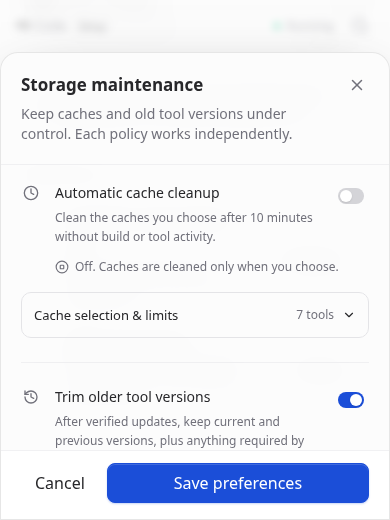
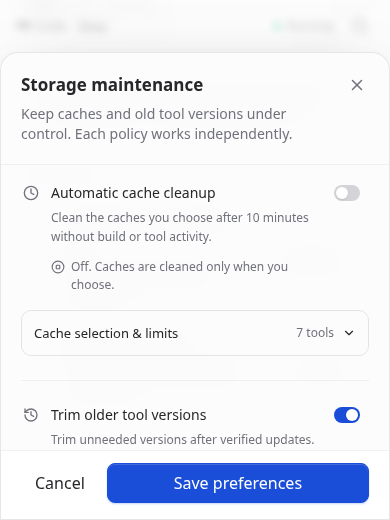
fix(storage): align policy copy and preserve paragraph spacing

diff --git a/docker/setup/console.css b/docker/setup/console.css
@@ -227,7 +227,7 @@ html.tc-locked { overflow: hidden; }
 .tc-storage-layout, .tc-storage-secondary { min-width: 0; display: grid; align-items: start; gap: var(--_gap); }
 @media (min-width: 1200px) {
   .tc-storage-layout { grid-template-columns: minmax(0, 1fr) 280px; gap: 24px; }
-  .tc-storage-secondary .tc-row { grid-template-columns: 28px minmax(0, 1fr); align-items: start; }
+  .tc-storage-secondary .tc-row { grid-template-columns: max-content minmax(0, 1fr); align-items: start; }
   .tc-storage-secondary .tc-row-actions { grid-column: 2; justify-content: flex-start; }
   .tc-storage-secondary .tc-row-name { white-space: normal; }
 }
@@ -237,7 +237,7 @@ html.tc-locked { overflow: hidden; }
 .tc-storage-disk-warning[data-tone="danger"] { color: var(--danger-text); }
 .tc-storage-disk-warning > .tc-icon { flex: none; margin-top: 2px; }
 .tc-storage-cache-summary { display: flex; flex-wrap: wrap; justify-content: space-between; gap: 4px 16px; padding: 12px 16px; border-bottom: 1px solid var(--hairline); font-size: 12px; color: var(--fg-muted); }
-.tc-storage-cache-row { grid-template-columns: 28px minmax(0, 1fr) max-content auto; column-gap: 12px; padding: 13px 16px; }
+.tc-storage-cache-row { grid-template-columns: max-content minmax(0, 1fr) max-content auto; column-gap: 12px; padding: 13px 16px; }
 .tc-storage-cache-row .tc-row-name { white-space: normal; }
 .tc-storage-cache-caption { display: flex; align-items: flex-start; gap: 5px; margin-top: 2px; color: var(--fg-muted); font-size: 12px; line-height: 18px; }
 .tc-storage-cache-caption > .tc-icon { flex: none; margin-top: 2px; }
@@ -276,7 +276,7 @@ html.tc-locked { overflow: hidden; }
 .tc-storage-plan-summary { display: flex; justify-content: space-between; align-items: flex-end; gap: 16px; }
 .tc-storage-plan-summary > div { display: grid; gap: 5px; }
 .tc-storage-plan-summary strong { font-size: 27px; font-weight: 500; line-height: 34px; font-variant-numeric: tabular-nums; letter-spacing: -.6px; }
-.tc-storage-plan-note { color: var(--fg-muted); font-size: 12px; line-height: 18px; margin: 12px 0 0; }
+.tc-storage-cleanup .tc-storage-plan-note { color: var(--fg-muted); font-size: 12px; line-height: 18px; margin: 12px 0 0; }
 .tc-storage-plan-list { margin-top: 20px; border: 1px solid var(--border); border-radius: var(--radius-lg); overflow: hidden; }
 .tc-storage-plan-row { padding: 14px; }
 .tc-storage-plan-row + .tc-storage-plan-row { border-top: 1px solid var(--hairline); }
@@ -288,7 +288,8 @@ html.tc-locked { overflow: hidden; }
 .tc-storage-plan-main { flex: 1; min-width: 0; display: grid; gap: 2px; }
 .tc-storage-plan-label { cursor: pointer; min-height: 44px; align-content: center; }
 .tc-storage-plan-choice > .tc-storage-size { align-self: flex-start; padding-top: 2px; }
-.tc-storage-plan-effect { margin: 8px 0 0 26px; color: var(--fg-muted); font-size: 12px; line-height: 18px; }
+.tc-storage-plan-explanation { display: grid; gap: 8px; }
+.tc-storage-plan-effect { color: var(--fg-muted); font-size: 12px; line-height: 18px; }
 .tc-storage-technical { margin: 8px 0 0 26px; font-size: 11px; line-height: 17px; color: var(--fg-muted); }
 .tc-storage-technical summary { cursor: pointer; width: fit-content; padding: 6px 0; }
 .tc-storage-technical code { display: block; padding: 8px 10px; margin-top: 6px; border: 1px solid var(--hairline); border-radius: var(--radius-sm); background: var(--hover); overflow-wrap: anywhere; color: var(--fg); }
@@ -298,6 +299,9 @@ html.tc-locked { overflow: hidden; }
 .tc-storage-location-item strong { font-size: 12px; font-weight: 500; color: var(--fg); }
 .tc-storage-location-item p { margin: 5px 0; }
 .tc-storage-plan-row[data-kept] { background: color-mix(in srgb, var(--fg) 2%, transparent); }
+.tc-storage-plan-row[data-kept] .tc-storage-plan-choice { align-items: flex-start; }
+.tc-storage-plan-row[data-kept] .tc-storage-plan-lock,
+.tc-storage-plan-row[data-kept] .tc-storage-plan-choice > .tc-tile { margin-top: 2px; }
 .tc-storage-result-summary { display: flex; align-items: flex-start; gap: 12px; margin: 4px 0 24px; }
 .tc-storage-result-mark { width: 36px; height: 36px; display: grid; place-items: center; border-radius: var(--radius-lg); background: var(--ok-soft); color: var(--ok-text); flex: none; }
 .tc-storage-result-mark[data-danger] { background: var(--danger-soft); color: var(--danger-text); }
@@ -309,12 +313,15 @@ html.tc-locked { overflow: hidden; }
 .tc-storage-cleanup-steps li + li { border-top: 1px solid var(--hairline); }
 .tc-storage-cleanup-steps li > span:first-child { display: flex; color: var(--fg-muted); }
 .tc-storage-policy-section + .tc-storage-policy-section { margin-top: 24px; padding-top: 24px; border-top: 1px solid var(--hairline); }
-.tc-storage-policy-heading { display: grid; grid-template-columns: 28px minmax(0, 1fr) 44px; align-items: flex-start; gap: 12px; }
-.tc-storage-policy-heading > div { display: grid; gap: 5px; }
+/* Related copy shares a column. Gaps survive the shell's paragraph reset;
+   intrinsic icon columns avoid reserving space beside smaller marks. */
+.tc-storage-policy-heading { display: grid; grid-template-columns: max-content minmax(0, 1fr) 44px; align-items: flex-start; gap: 12px; }
+.tc-storage-policy-copy { display: grid; gap: 12px; min-width: 0; }
+.tc-storage-policy-intro { display: grid; gap: 5px; }
 .tc-storage-policy-heading .tc-hint { line-height: 19px; }
 .tc-storage-policy-heading .tc-storage-toggle { width: 44px; height: 44px; margin-top: -12px; }
 .tc-storage-policy-heading .tc-switch::before { content: ""; position: absolute; inset: -14px -9px; }
-.tc-storage-policy-state { display: flex; align-items: flex-start; gap: 6px; margin: 12px 0 0 40px; font-size: 12px; line-height: 18px; color: var(--fg-muted); }
+.tc-storage-policy-state { display: flex; align-items: flex-start; gap: 6px; font-size: 12px; line-height: 18px; color: var(--fg-muted); }
 .tc-storage-policy-state > .tc-icon { flex: none; margin-top: 2px; }
 .tc-storage-limits-trigger { display: flex; gap: 8px; align-items: center; width: 100%; appearance: none; color: var(--fg); font: inherit; font-size: 13px; text-align: left; cursor: pointer; background: transparent; border: 1px solid var(--border); border-radius: var(--radius-lg); padding: 12px; margin-top: 16px; }
 .tc-storage-limits-trigger > .tc-small { margin-left: auto; }
@@ -328,7 +335,7 @@ html.tc-locked { overflow: hidden; }
 .tc-storage-limit-row + .tc-storage-limit-row { border-top: 1px solid var(--hairline); }
 .tc-storage-limit-label { display: flex; align-items: center; gap: 9px; min-height: 36px; font-size: 13px; line-height: 19px; cursor: pointer; }
 .tc-storage-limit-label > .tc-checkbox { flex: none; }
-.tc-storage-policy-detail { margin: 12px 0 0 40px; color: var(--fg-muted); font-size: 12px; line-height: 18px; }
+.tc-storage-policy-detail { color: var(--fg-muted); font-size: 12px; line-height: 18px; }
 .tc-storage-settings .tc-storage-notice { margin-top: 20px; scroll-margin-bottom: 16px; }
 @media (max-width: 639.98px) {
   .tc-storage-cache-row { grid-template-columns: 24px minmax(0, 1fr) auto; column-gap: 10px; row-gap: 4px; padding: 14px 12px; align-items: start; }
@@ -354,8 +361,7 @@ html.tc-locked { overflow: hidden; }
   .tc-storage-plan-choice > .tc-tile { display: none; }
   .tc-storage-plan-row { padding: 12px; }
   .tc-storage-plan-summary strong { font-size: 25px; }
-  .tc-storage-policy-heading { grid-template-columns: 24px minmax(0, 1fr) 44px; gap: 10px; }
-  .tc-storage-policy-state, .tc-storage-policy-detail { margin-left: 34px; }
+  .tc-storage-policy-heading { gap: 10px; }
   .tc-storage-limit-row { grid-template-columns: minmax(0, 1fr) 92px; gap: 8px; padding: 8px 10px; }
   .tc-storage-limit-label { min-height: 44px; }
 }

diff --git a/scripts/storage-ui-audit.js b/scripts/storage-ui-audit.js
@@ -10,6 +10,7 @@ try { ({ chromium } = require('playwright')); } catch { ({ chromium } = require(
 const base = process.argv[2] || 'http://127.0.0.1:23780/__setup/';
 const key = process.argv[3] || 'dev', GB = 1e9;
 const output = process.env.T3_STORAGE_UI_OUTPUT || '/tmp/t3-storage-ui-audit';
+const spacingOnly = process.env.T3_STORAGE_UI_SPACING_ONLY === '1';
 const deferred = () => { let release; return { promise: new Promise(resolve => { release = resolve; }), release: () => release() }; };
 const pause = ms => new Promise(resolve => setTimeout(resolve, ms));
 
@@ -27,6 +28,35 @@ const geometry = () => {
     const r = el.getBoundingClientRect(), style = getComputedStyle(el);
     if (!r.width || !r.height || el.matches('input,.tc-storage-path,.tc-switch')) continue;
     if (style.overflowX === 'visible' && el.scrollWidth > el.clientWidth + 1) issues.push((el.className || el.tagName) + ' clipped');
+  }
+  for (const row of document.querySelectorAll('.tc-storage .tc-row')) {
+    const lead = row.querySelector(':scope > .tc-tile'), main = row.querySelector(':scope > .tc-row-main');
+    if (lead && main) {
+      const gap = main.getBoundingClientRect().left - lead.getBoundingClientRect().right;
+      if (Math.abs(gap - parseFloat(getComputedStyle(row).columnGap)) > 1) issues.push('row text is detached from its icon');
+    }
+  }
+  // Overflow checks cannot detect a paragraph losing its indent or breathing
+  // room to the shell's reset. Check relationships between rendered text boxes.
+  for (const section of document.querySelectorAll('.tc-storage-policy-section')) {
+    const help = section.querySelector('.tc-hint'), detail = section.querySelector('.tc-storage-policy-detail,.tc-storage-policy-state');
+    if (help && detail) {
+      const a = help.getBoundingClientRect(), b = detail.getBoundingClientRect(), gap = b.top - a.bottom;
+      if (Math.abs(a.left - b.left) > 1) issues.push('policy explanation is not aligned with its description');
+      if (gap < 8 || gap > 20) issues.push('policy explanation has uneven vertical spacing');
+    }
+  }
+  for (const note of document.querySelectorAll('.tc-storage-cleanup .tc-storage-plan-note')) {
+    const previous = note.previousElementSibling;
+    if (previous && note.getBoundingClientRect().top - previous.getBoundingClientRect().bottom < 8) issues.push('cleanup note touches the preceding content');
+  }
+  for (const row of document.querySelectorAll('.tc-storage-plan-row[data-kept]')) {
+    const name = row.querySelector('.tc-row-name'), reason = row.querySelector('.tc-small'), detail = row.querySelector('.tc-storage-plan-effect');
+    if (detail) {
+      const a = name.getBoundingClientRect(), b = reason.getBoundingClientRect(), c = detail.getBoundingClientRect();
+      if (Math.abs(a.left - c.left) > 1) issues.push('protected-cache explanation is not aligned with its name');
+      if (c.top - b.bottom < 6) issues.push('protected-cache explanation touches its status');
+    }
   }
   return issues;
 };
@@ -115,7 +145,10 @@ const geometry = () => {
       await surface.locator('[data-key=storage-preferences]').click();
       assert.equal(await surface.locator('#storage-cache-limits').isVisible(),false,'off settings do not expose seven large fields');
       await snap('maintenance');
+      await surface.locator('[data-storage-switch=retainManagedVersions]').click(); await snap('maintenance-retention-off');
+      await surface.locator('[data-storage-switch=retainManagedVersions]').click();
       await surface.locator('[data-storage-limits]').click(); await check('expanded limits');
+      if (spacingOnly) await snap('maintenance-expanded');
       const footer = await surface.locator('.tc-storage-settings .tc-storage-dialog-foot').boundingBox();
       await surface.locator('.tc-storage-settings .tc-storage-dialog-scroll').evaluate(el => { el.scrollTop = el.scrollHeight; });
       assert.deepEqual(await surface.locator('.tc-storage-settings .tc-storage-dialog-foot').boundingBox(),footer,'settings footer stays fixed');
@@ -133,7 +166,7 @@ const geometry = () => {
       await surface.getByRole('alertdialog').getByRole('button',{name:'Cancel',exact:true}).click();
       assert.equal(await surface.locator('#storage-go-limit').inputValue(),'12.5','cancelled discard preserves the draft');
       mock.options.failPolicy = true; await surface.locator('[data-storage-save]').click();
-      await surface.locator('#storage-settings-error').waitFor(); assert.equal(await surface.locator('#storage-go-limit').inputValue(),'12.5'); await check('failed preferences');
+      await surface.locator('#storage-settings-error').waitFor(); assert.equal(await surface.locator('#storage-go-limit').inputValue(),'12.5'); await snap('maintenance-save-error');
       assert.equal(await surface.evaluate(() => document.activeElement.id),'storage-settings-error','save errors receive keyboard focus');
       assert(await surface.locator('#storage-settings-error').evaluate(el=>{
         const r=el.getBoundingClientRect(),body=el.closest('.tc-storage-dialog-scroll').getBoundingClientRect();
@@ -151,6 +184,12 @@ const geometry = () => {
       await surface.locator('#storage-go-limit').waitFor({state:'visible'});
       assert.equal(await surface.locator('#storage-go-limit').inputValue(),'12.5'); assert.equal(await surface.locator('#storage-uv-limit').inputValue(),'3');
       await cancel();
+
+      if (spacingOnly) {
+        assert.deepEqual(errors,[]); await context.close();
+        console.log(`PASS spacing ${tag}: text alignment, paragraph gaps, on/off policies, expanded limits, save errors, drafts and conflicts`);
+        continue;
+      }
 
       // Existing previous-version consent, stale replies and long inventories.
       await surface.locator('[data-key=storage-review]').click(); await surface.getByRole('dialog').waitFor();

diff --git a/docker/setup/client/storage-preferences.js b/docker/setup/client/storage-preferences.js
@@ -21,9 +21,9 @@ const T3StoragePreferences = (() => {
           <button class="tc-btn tc-btn--ghost tc-btn--icon" type="button" data-storage-cancel aria-label="Close maintenance settings"${disabled(saving)}>${icon('x')}</button></div>
         <div class="tc-storage-dialog-scroll">
           <section class="tc-storage-policy-section" aria-labelledby="storage-auto-label"><div class="tc-storage-policy-heading"><span class="tc-tile tc-tile--icon" aria-hidden="true">${icon('clock')}</span>
-            <div><label class="tc-row-name" id="storage-auto-label">Automatic cache cleanup</label><p class="tc-hint" id="storage-auto-help">Clean the caches you choose after 10 minutes without build or tool activity.</p></div>
+            <div class="tc-storage-policy-copy"><div class="tc-storage-policy-intro"><span class="tc-row-name" id="storage-auto-label">Automatic cache cleanup</span><p class="tc-hint" id="storage-auto-help">Clean the caches you choose after 10 minutes without build or tool activity.</p></div>
+              <div class="tc-storage-policy-state">${icon(draft.automatic ? 'check' : 'circle-stop', 'tc-icon--sm')}<span>${draft.automatic ? draft.automaticCaches.length ? T3Model.plural(draft.automaticCaches.length, 'cache') + ' selected for maintenance' : 'Choose at least one cache below' : 'Off. Caches are cleaned only when you choose.'}</span></div></div>
             <span class="tc-storage-toggle"><button type="button" class="tc-switch" role="switch" aria-labelledby="storage-auto-label" aria-describedby="storage-auto-help" aria-checked="${String(draft.automatic)}" data-storage-switch="automatic"${disabled(saving)}></button></span></div>
-            <div class="tc-storage-policy-state">${icon(draft.automatic ? 'check' : 'circle-stop', 'tc-icon--sm')}<span>${draft.automatic ? draft.automaticCaches.length ? T3Model.plural(draft.automaticCaches.length, 'cache') + ' selected for maintenance' : 'Choose at least one cache below' : 'Off. Caches are cleaned only when you choose.'}</span></div>
             <button class="tc-storage-limits-trigger" type="button" data-storage-limits aria-expanded="${String(limitsOpen)}" aria-controls="storage-cache-limits"${disabled(saving)}><span>Cache selection & limits</span><span class="tc-small tc-muted">${definitions.length} tools</span>${icon('chevron-down', 'tc-icon--sm')}</button>
             <div id="storage-cache-limits" class="tc-storage-limits"${limitsOpen ? '' : raw(' hidden')}>
               <p class="tc-hint">Choose which caches can be maintained. A limit triggers cleanup; it is not a target size. Protected caches are skipped.</p>
@@ -34,9 +34,9 @@ const T3StoragePreferences = (() => {
             </div>
           </section>
           <section class="tc-storage-policy-section" aria-labelledby="storage-retain-label"><div class="tc-storage-policy-heading"><span class="tc-tile tc-tile--icon" aria-hidden="true">${icon('history')}</span>
-            <div><label class="tc-row-name" id="storage-retain-label">Trim older tool versions</label><p class="tc-hint" id="storage-retain-help">After verified updates, keep current and previous versions, plus anything required by projects, providers or running tools.</p></div>
-            <span class="tc-storage-toggle"><button type="button" class="tc-switch" role="switch" aria-labelledby="storage-retain-label" aria-describedby="storage-retain-help" aria-checked="${String(draft.retainManagedVersions)}" data-storage-switch="retainManagedVersions"${disabled(saving)}></button></span></div>
-            <p class="tc-storage-policy-detail">${draft.retainManagedVersions ? 'Older unneeded versions are trimmed after updates.' : 'Versions stay installed until you review and trim them.'} Removing previous versions is always a separate manual choice.</p>
+            <div class="tc-storage-policy-copy"><div class="tc-storage-policy-intro"><span class="tc-row-name" id="storage-retain-label">Trim older tool versions</span><p class="tc-hint" id="storage-retain-help">${draft.retainManagedVersions ? 'Trim unneeded versions after verified updates.' : 'Keep older versions until you review and trim them.'}</p></div>
+              <p class="tc-storage-policy-detail" id="storage-retain-detail">Current, previous and required versions are protected. Removing previous versions is a separate manual choice.</p></div>
+            <span class="tc-storage-toggle"><button type="button" class="tc-switch" role="switch" aria-labelledby="storage-retain-label" aria-describedby="storage-retain-help storage-retain-detail" aria-checked="${String(draft.retainManagedVersions)}" data-storage-switch="retainManagedVersions"${disabled(saving)}></button></span></div>
           </section>
           ${error ? html`<div class="tc-storage-notice tc-storage-notice--danger" role="alert" tabindex="-1" id="storage-settings-error">${icon('triangle-alert')}<div><strong>${conflict ? 'Preferences changed elsewhere' : 'Preferences weren’t saved'}</strong><p>${error}</p>${conflict ? html`<button class="tc-btn tc-btn--sm" type="button" data-storage-reload>Reload latest preferences</button>` : ''}</div></div>` : ''}
         </div>

diff --git a/docker/setup/client/storage-review.js b/docker/setup/client/storage-review.js
@@ -39,10 +39,9 @@ const T3StorageReview = (() => {
                   <div class="tc-storage-plan-choice">
                     ${row.eligible ? html`<input class="tc-checkbox" type="checkbox" id="cleanup-${row.id}" data-cleanup-id="${row.id}" aria-labelledby="cleanup-label-${row.id}"${state.selected.has(row.id) ? raw(' checked') : ''}${disabled(state.submitting)}>` : html`<span class="tc-storage-plan-lock" aria-hidden="true">${icon(row.status === 'empty' ? 'check' : row.status === 'busy' ? 'clock' : 'shield-check', 'tc-icon--sm')}</span>`}
                     <span class="tc-tile tc-tile--sm" aria-hidden="true">${mark(row)}</span>
-                    ${row.eligible ? html`<label class="tc-storage-plan-main tc-storage-plan-label" for="cleanup-${row.id}"><span class="tc-row-name" id="cleanup-label-${row.id}">${row.label}</span><span class="tc-small tc-muted">${row.cleanupHint || row.effect}</span></label>` : html`<div class="tc-storage-plan-main"><span class="tc-row-name" id="cleanup-label-${row.id}">${row.label}</span><span class="tc-small tc-muted">${row.reason}</span></div>`}
+                    ${row.eligible ? html`<label class="tc-storage-plan-main tc-storage-plan-label" for="cleanup-${row.id}"><span class="tc-row-name" id="cleanup-label-${row.id}">${row.label}</span><span class="tc-small tc-muted">${row.cleanupHint || row.effect}</span></label>` : html`<div class="tc-storage-plan-main"><span class="tc-row-name" id="cleanup-label-${row.id}">${row.label}</span><div class="tc-storage-plan-explanation"><span class="tc-small tc-muted">${row.reason}</span>${row.status !== 'empty' ? html`<p class="tc-storage-plan-effect">${row.detail}</p>` : ''}</div></div>`}
                     <span class="tc-storage-size">${T3Model.formatBytes(row.bytes)}</span>
                   </div>
-                  ${!row.eligible && row.status !== 'empty' ? html`<p class="tc-storage-plan-effect">${row.detail}</p>` : ''}
                 </div>`)}</div>
               <details class="tc-storage-technical tc-storage-plan-locations" data-key="cleanup-locations"><summary>Locations and cleanup behavior</summary>${rows().map((row) => html`<div class="tc-storage-location-item"><strong>${row.label}</strong><p>${row.effect}</p><code>${row.path || 'Location unavailable'}</code></div>`)}</details>
               ${state.expired && !state.failure ? html`<div class="tc-storage-notice" role="status">${icon('clock')}<div><strong>This review has expired</strong><p>Check the current locations and tool activity before continuing.</p></div></div>` : !choice.length && !state.failure ? html`<p class="tc-storage-plan-note" role="status">${rows().some((row) => row.eligible) ? 'Choose at least one cache to continue.' : 'Nothing can be cleaned in this review. The reasons above explain what is being kept.'}</p>` : ''}

diff --git a/scripts/ui-audit.js b/scripts/ui-audit.js
@@ -34,6 +34,7 @@ const KEY = process.argv[3] || "k";
 const DEVICE_ID = process.env.T3_UI_AUDIT_DEVICE_ID || "";
 const DEVICE_LABEL = 'Work phone <not markup> & "desk"';
 const DEVICE_LONG_LABEL = 'W'.repeat(64);
+const REQUESTED_STATES = process.env.T3_UI_AUDIT_STATES?.split(',').map(name => name.trim()).filter(Boolean);
 const CHROME = process.env.CHROME_PATH
   || (require("node:fs").existsSync("/usr/bin/chromium") ? "/usr/bin/chromium"
       : "/opt/pw-browsers/chromium-1194/chrome-linux/chrome");
@@ -462,6 +463,10 @@ const audit = () => {
     }],
   ];
 
+  const states = REQUESTED_STATES ? STATES.filter(([name]) => REQUESTED_STATES.includes(name)) : STATES;
+  if (!states.length || REQUESTED_STATES?.some(name => !STATES.some(([state]) => state === name))) {
+    throw new Error('T3_UI_AUDIT_STATES must name existing routes or overlay states.');
+  }
   for (const { url, viewport: [width, height], tag } of RUNS) {
     // Measure a settled page: reduced motion disables the transitions and
     // animations the stylesheet already gates behind that preference, so a
@@ -492,7 +497,7 @@ const audit = () => {
       console.log(`  ${label.padEnd(19)} the console in the frame is not embedded, or has no visible close button`);
       found += 1;
     }
-    for (const [state, reach] of STATES) {
+    for (const [state, reach] of states) {
       await reach(target);
       await settle(target);
       const findings = await target.evaluate(audit);
@@ -504,10 +509,11 @@ const audit = () => {
         if (f.where) console.log(`        at ${f.where}`);
       }
     }
-    if (!found) console.log(`  ${label.padEnd(19)} clean (${STATES.length} states)`);
+    if (!found) console.log(`  ${label.padEnd(19)} clean (${states.length} state${states.length === 1 ? '' : 's'})`);
     total += found;
-    // The link this made is not for anyone; leave no unused link behind.
-    await target.evaluate(async () => {
+    // Only the pairing state creates a disposable link. A focused read-only
+    // run must never revoke a link that already belonged to someone else.
+    if (states.some(([name]) => name === 'pairing')) await target.evaluate(async () => {
       const button = document.querySelector("#page-access .tc-card-foot [data-cmd='link.revoke']");
       if (!button) return;
       await fetch((window.__T3_SETUP_BASE__ || "") + "/revoke", {

diff --git a/CONTRIBUTING.md b/CONTRIBUTING.md
@@ -56,6 +56,8 @@ Issues and pull requests are welcome. Before opening one:
   shows on Overview, Agents or Ports.
   `node scripts/ui-audit.js http://127.0.0.1:23780/__setup/ dev` measures the
   same pages for clipped text, uneven buttons and misaligned glyphs.
+  `T3_UI_AUDIT_STATES=storage` narrows that shared audit to Storage; comma-separated
+  route or overlay names select other states without weakening the default run.
   `node scripts/storage-ui-audit.js http://127.0.0.1:23780/__setup/ dev`
   checks the complete cleanup and maintenance journeys in 18 light/dark
   configurations, including short viewports and real embedded frames. It covers
@@ -65,6 +67,9 @@ Issues and pull requests are welcome. Before opening one:
   cache or change preferences. Screenshots go to `/tmp/t3-storage-ui-audit`;
   set `T3_STORAGE_UI_OUTPUT` to change that location. The development console
   isolates its home, mise state, and caches under `/tmp/t3-dev/home`.
+  For a focused visual pass, `T3_STORAGE_UI_SPACING_ONLY=1` checks text alignment,
+  paragraph gaps, policy states, expanded limits and preference recovery across
+  the same viewports. It stops before the version and cleanup job scenarios.
   The fixture console also supports Storage: run `node scripts/console-preview.mjs`
   and open `http://127.0.0.1:23785/__setup/#storage`. Its writes stay in memory;
   the same browser audit can use this URL. `node scripts/storage-native-smoke.mjs`
